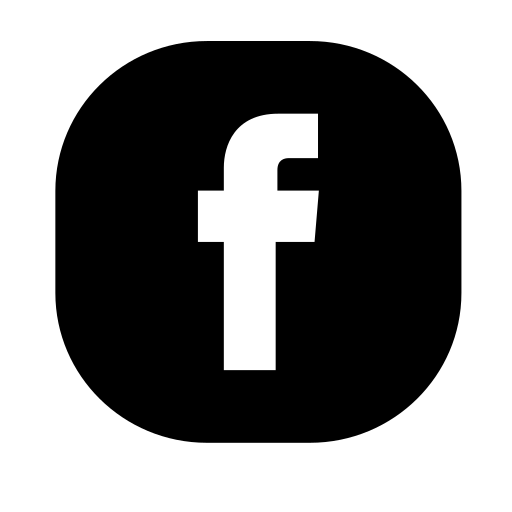
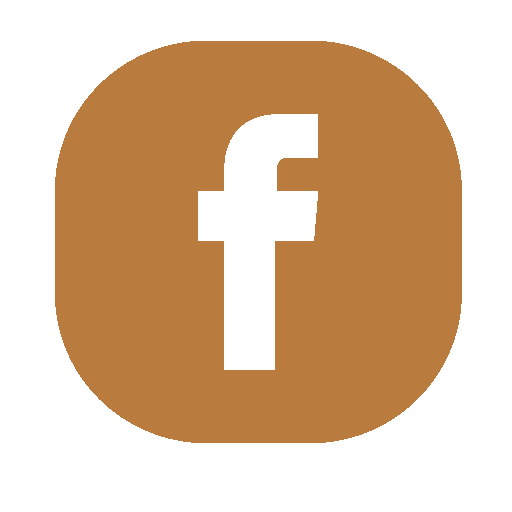
Changed background image and some style to fit

diff --git a/style.css b/style.css
@@ -4,11 +4,12 @@ font-family: 'Maven Pro', sans-serif;
 */
 
 :root {
-    --color1: rgb(222, 126, 127);
-    --color2: rgb(251, 168, 150);
-    --color3: rgb(173, 88, 147);
-    --color4: rgb(94, 46, 108);
-    --color5: #290c3c;
+    --color1: #c38451;
+    --color2: #fdbc56;
+    --color3: rgb(223, 155, 70);
+    --color4: rgb(184, 122, 61);
+    --color5: #4d372c;
+    --color6: #3d2f26;
 }
 
 * {
@@ -20,8 +21,8 @@ body {
     height: 100vh;
     width: 100vw;
 
-    background-image: url(assets/vincentiu-solomon-ln5drpv_ImI-unsplash.jpg);
-    background-position: bottom;
+    background-image: url(assets/wade-allen-FAf1sMb_NTU-unsplash.jpg);
+    background-position: top;
     background-size: cover;
     overflow: hidden;
 }
@@ -57,7 +58,7 @@ header img {
 
     font-family: 'Abel', sans-serif;
     color: white;
-    text-shadow: 0 0 20px white;
+    text-shadow: 0 0 10px white;
 }
 .countdown-wrapper {
     width: 13rem;
@@ -98,9 +99,9 @@ header img {
     text-decoration: none;
     color: white;
 
-    background-color: rgba(222, 126, 127, 0.3);
+    background-color: rgba(184, 122, 61, 0.3);
 
-    box-shadow: 2px 2px 10px rgba(94, 46, 108, 0.5);
+    border-radius: 5px;
 
     backdrop-filter: blur(1px);
 }

diff --git a/index.html b/index.html
@@ -44,13 +44,13 @@
         </div>
         <div class="social">
             <a href="https://instagram.com/nasaartemis" target="_blank">
-                <img src="assets/instagram.png" alt="Instagram logo">
+                <img src="assets/instagram-colored.png" alt="Instagram logo">
             </a>
             <a href="https://twitter.com/NASAArtemis" target="_blank">
-                <img src="assets/twitter.png" alt="Twitter logo">
+                <img src="assets/twitter-colored.png" alt="Twitter logo">
             </a>
             <a href="https://www.facebook.com/NASAArtemis/" target="_blank">
-                <img src="assets/facebook.png" alt="Facebook logo">
+                <img src="assets/facebook-colored.png" alt="Facebook logo">
             </a>
         </div>
     </div>
